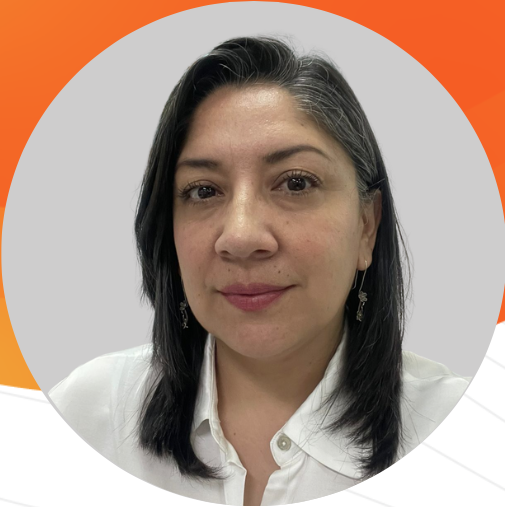
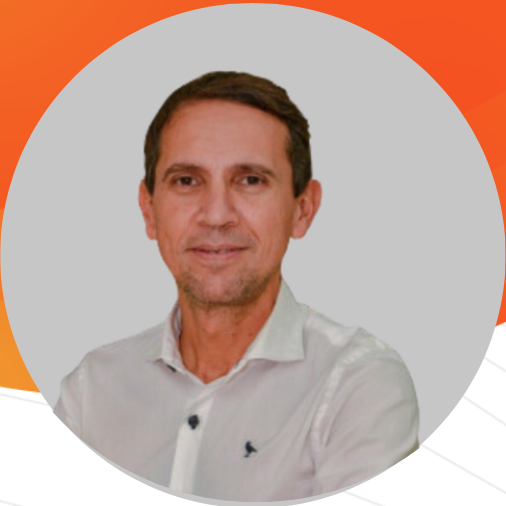
update

diff --git a/cuvico/andres/index.html b/cuvico/andres/index.html
@@ -3,8 +3,10 @@
 <head>
   <meta charset="UTF-8">
   <meta name="viewport" content="width=device-width, initial-scale=1.0">
-  <title>Maribel González | Socia Inspiradora</title>
-  <meta name="description" content="Conoce a Maribel González, Socia Inspiradora de Cuvico.">
+  <title>Andrés
+Rodríguez | Socio Inspirador</title>
+  <meta name="description" content="Conoce a Andrés
+Rodríguez, Socio Inspirador de Cuvico.">
   <meta name="theme-color" content="#08509e">
   
   <!-- Fonts -->
@@ -27,21 +29,24 @@
   <!-- Profile -->
   <div class="profile">
     <img src="./assets/profilepic.png" alt="Foto de perfil" class="profile-img">
-    <h1>Maribel González</h1>
-    <p class="job">Socia inspiradora</p>
+    <h1>Andrés
+Rodríguez</h1>
+    <p class="job">Socio inspirador</p>
   </div>
 
   <!-- About Me -->
   <div class="about-me">
     <h6>Acerca de mi</h6>
-    <p class="desc">Coach de vida y empresarial, Consultora Certificada CTT, en
-herramientas para la transformación cultural por valores de Barrett
-values centre.<br> 
-Comunicadora social y periodista. Especialista en comunicación
-organizacional y Master en comportamiento no verbal.<br>
-Cuenta con 20 años de experiencia como líder y facilitadora en áreas de
-comunicación, cultura y desarrollo de integrantes. Así como
-inspiradora de la cultura VIDA.</p>
+    <p class="desc">Coach de Fortalezas certificado por Gallup y coach ejecutivo de Coaching Hall
+International, con formación en metodologías innovadoras como Open Cards y
+consultor en las 5M, HSMP y Gestión del Cambio.</br>
+Es Psicólogo con especialización en Gerencia de Recursos Humanos y Magíster
+en Perfilación de la Personalidad y Negociación, con múltiples certificaciones
+internacionales en coaching y consultoría estratégica.</br>
+Cuenta con más 20 años de experiencia liderando procesos de gestión humana,
+atracción y desarrollo de talento, así como en la implementación de proyectos de
+cambio organizacional y transformación cultural, aportando valor estratégico y
+transformador en cada una de sus intervenciones.</p>
     
     <!-- Tags -->
     <div class="tags-container">
@@ -49,45 +54,45 @@ inspiradora de la cultura VIDA.</p>
         <div class="tags">
           <span class="tag" style="--tag-color: #08509e;">
             <span class="dot"></span>
-            Maximizador
+            Estratégico
           </span>
           <span class="tag" style="--tag-color: #fd6107;">
             <span class="dot"></span>
-            Aprendedor
+            Inclusión
           </span>
           <span class="tag" style="--tag-color: #08509e;">
             <span class="dot"></span>
-            Coordinador
+            Activador
           </span>
           <span class="tag" style="--tag-color: #fd6107;">
             <span class="dot"></span>
-            Individualizar
+            Idear
           </span>
           <span class="tag" style="--tag-color: #08509e;">
             <span class="dot"></span>
-            Responsabilidad
+            Comunicación
           </span>
         </div>
         <div class="tags">
+          <span class="tag" style="--tag-color: #fd6107;">
+            <span class="dot"></span>
+            Estratégico
+          </span>
           <span class="tag" style="--tag-color: #08509e;">
             <span class="dot"></span>
-            Maximizador
+            Inclusión
           </span>
           <span class="tag" style="--tag-color: #fd6107;">
             <span class="dot"></span>
-            Aprendedor
+            Activador
           </span>
           <span class="tag" style="--tag-color: #08509e;">
             <span class="dot"></span>
-            Coordinador
+            Idear
           </span>
           <span class="tag" style="--tag-color: #fd6107;">
             <span class="dot"></span>
-            Individualizar
-          </span>
-          <span class="tag" style="--tag-color: #08509e;">
-            <span class="dot"></span>
-            Responsabilidad
+            Comunicación
           </span>
         </div>
       </div>
@@ -101,7 +106,7 @@ inspiradora de la cultura VIDA.</p>
         <path d="M 16 3 C 8.83 3 3 8.83 3 16 L 3 34 C 3 41.17 8.83 47 16 47 L 34 47 C 41.17 47 47 41.17 47 34 L 47 16 C 47 8.83 41.17 3 34 3 L 16 3 z M 37 11 C 38.1 11 39 11.9 39 13 C 39 14.1 38.1 15 37 15 C 35.9 15 35 14.1 35 13 C 35 11.9 35.9 11 37 11 z M 25 14 C 31.07 14 36 18.93 36 25 C 36 31.07 31.07 36 25 36 C 18.93 36 14 31.07 14 25 C 14 18.93 18.93 14 25 14 z M 25 16 C 20.04 16 16 20.04 16 25 C 16 29.96 20.04 34 25 34 C 29.96 34 34 29.96 34 25 C 34 20.04 29.96 16 25 16 z"></path>
       </svg>
     </a>
-    <a href="https://www.linkedin.com/in/maribel-gonzález" target="_blank" rel="noopener">
+    <a href="https://www.linkedin.com/company/cuvicoconsultores/" target="_blank" rel="noopener">
       <svg xmlns="http://www.w3.org/2000/svg" viewBox="0 0 16 16">
         <path d="M0 1.146C0 .513.526 0 1.175 0h13.65C15.474 0 16 .513 16 1.146v13.708c0 .633-.526 1.146-1.175 1.146H1.175C.526 16 0 15.487 0 14.854zm4.943 12.248V6.169H2.542v7.225zm-1.2-8.212c.837 0 1.358-.554 1.358-1.248-.015-.709-.52-1.248-1.342-1.248S2.4 3.226 2.4 3.934c0 .694.521 1.248 1.327 1.248zm4.908 8.212V9.359c0-.216.016-.432.08-.586.173-.431.568-.878 1.232-.878.869 0 1.216.662 1.216 1.634v3.865h2.401V9.25c0-2.22-1.184-3.252-2.764-3.252-1.274 0-1.845.7-2.165 1.193v.025h-.016l.016-.025V6.169h-2.4c.03.678 0 7.225 0 7.225z"/>
       </svg>
@@ -121,9 +126,9 @@ inspiradora de la cultura VIDA.</p>
   <!-- Links -->
   <div class="links">
     <h3>Contáctame</h3>
-    <a href="#">Añadir contacto</a>
-    <a href="https://wa.me/3016227209" target="_blank" rel="noopener">WhatsApp</a>
-    <a href="mailto:maribel@cuvico.com.co">Mi Correo</a>
+    <a href="./assets/andres.vcf">Añadir contacto</a>
+    <a href="https://wa.me/+573108014220" target="_blank" rel="noopener">WhatsApp</a>
+    <a href="mailto:arodriguez@cuvico.com.co">Mi Correo</a>
     
     <h3>Cuvico</h3>
     <a href="https://cuvico.com.co" target="_blank" rel="noopener">Página web</a>
@@ -242,8 +247,8 @@ inspiradora de la cultura VIDA.</p>
       e.preventDefault();
       if (navigator.share) {
         navigator.share({
-          title: 'Maribel González',
-          text: 'Conoce el perfil de Maribel González',
+          title: 'Andrés Rodríguez',
+          text: 'Conoce el perfil de Andrés Rodríguez',
           url: window.location.href
         }).catch(err => console.log('Error sharing:', err));
       } else {

diff --git a/cuvico/alina/index.html b/cuvico/alina/index.html
@@ -3,8 +3,8 @@
 <head>
   <meta charset="UTF-8">
   <meta name="viewport" content="width=device-width, initial-scale=1.0">
-  <title>Maribel González | Socia Inspiradora</title>
-  <meta name="description" content="Conoce a Maribel González, Socia Inspiradora de Cuvico.">
+  <title>Alina Restrepo | Socia Inspiradora</title>
+  <meta name="description" content="Conoce a Alina Restrepo, Socia Inspiradora de Cuvico.">
   <meta name="theme-color" content="#08509e">
   
   <!-- Fonts -->
@@ -27,21 +27,20 @@
   <!-- Profile -->
   <div class="profile">
     <img src="./assets/profilepic.png" alt="Foto de perfil" class="profile-img">
-    <h1>Maribel González</h1>
+    <h1>Alina Restrepo</h1>
     <p class="job">Socia inspiradora</p>
   </div>
 
   <!-- About Me -->
   <div class="about-me">
     <h6>Acerca de mi</h6>
-    <p class="desc">Coach de vida y empresarial, Consultora Certificada CTT, en
-herramientas para la transformación cultural por valores de Barrett
-values centre.<br> 
-Comunicadora social y periodista. Especialista en comunicación
-organizacional y Master en comportamiento no verbal.<br>
-Cuenta con 20 años de experiencia como líder y facilitadora en áreas de
-comunicación, cultura y desarrollo de integrantes. Así como
-inspiradora de la cultura VIDA.</p>
+    <p class="desc">Certificada como Coach de fortalezas de Gallup, es también Coach Ejecutiva
+certificada por CBC International, Coach ontológica de Newfield network,
+Coach organizacional y de Liderazgo generativo y Coach sistémica de Equipos.<br>
+Administradora de negocios con especialización en finanzas con más de 20 años
+de experiencia en el sector comercial y empresarial, como líder, consultora,
+catedrática e inspiradora organizacional.
+Mentora y docente de Empresarismo en la Universidad Eafit</p>
     
     <!-- Tags -->
     <div class="tags-container">
@@ -49,15 +48,7 @@ inspiradora de la cultura VIDA.</p>
         <div class="tags">
           <span class="tag" style="--tag-color: #08509e;">
             <span class="dot"></span>
-            Maximizador
-          </span>
-          <span class="tag" style="--tag-color: #fd6107;">
-            <span class="dot"></span>
-            Aprendedor
-          </span>
-          <span class="tag" style="--tag-color: #08509e;">
-            <span class="dot"></span>
-            Coordinador
+            Activador
           </span>
           <span class="tag" style="--tag-color: #fd6107;">
             <span class="dot"></span>
@@ -65,17 +56,29 @@ inspiradora de la cultura VIDA.</p>
           </span>
           <span class="tag" style="--tag-color: #08509e;">
             <span class="dot"></span>
-            Responsabilidad
+            Empatía
+          </span>
+          <span class="tag" style="--tag-color: #fd6107;">
+            <span class="dot"></span>
+            Coordinador
+          </span>
+          <span class="tag" style="--tag-color: #08509e;">
+            <span class="dot"></span>
+            Afinidad
           </span>
         </div>
         <div class="tags">
+          <span class="tag" style="--tag-color: #fd6107;">
+            <span class="dot"></span>
+            Activador
+          </span>
           <span class="tag" style="--tag-color: #08509e;">
             <span class="dot"></span>
-            Maximizador
+            Individualizar
           </span>
           <span class="tag" style="--tag-color: #fd6107;">
             <span class="dot"></span>
-            Aprendedor
+            Empatía
           </span>
           <span class="tag" style="--tag-color: #08509e;">
             <span class="dot"></span>
@@ -83,11 +86,7 @@ inspiradora de la cultura VIDA.</p>
           </span>
           <span class="tag" style="--tag-color: #fd6107;">
             <span class="dot"></span>
-            Individualizar
-          </span>
-          <span class="tag" style="--tag-color: #08509e;">
-            <span class="dot"></span>
-            Responsabilidad
+            Afinidad
           </span>
         </div>
       </div>
@@ -101,7 +100,7 @@ inspiradora de la cultura VIDA.</p>
         <path d="M 16 3 C 8.83 3 3 8.83 3 16 L 3 34 C 3 41.17 8.83 47 16 47 L 34 47 C 41.17 47 47 41.17 47 34 L 47 16 C 47 8.83 41.17 3 34 3 L 16 3 z M 37 11 C 38.1 11 39 11.9 39 13 C 39 14.1 38.1 15 37 15 C 35.9 15 35 14.1 35 13 C 35 11.9 35.9 11 37 11 z M 25 14 C 31.07 14 36 18.93 36 25 C 36 31.07 31.07 36 25 36 C 18.93 36 14 31.07 14 25 C 14 18.93 18.93 14 25 14 z M 25 16 C 20.04 16 16 20.04 16 25 C 16 29.96 20.04 34 25 34 C 29.96 34 34 29.96 34 25 C 34 20.04 29.96 16 25 16 z"></path>
       </svg>
     </a>
-    <a href="https://www.linkedin.com/in/maribel-gonzález" target="_blank" rel="noopener">
+    <a href="https://www.linkedin.com/company/cuvicoconsultores/" target="_blank" rel="noopener">
       <svg xmlns="http://www.w3.org/2000/svg" viewBox="0 0 16 16">
         <path d="M0 1.146C0 .513.526 0 1.175 0h13.65C15.474 0 16 .513 16 1.146v13.708c0 .633-.526 1.146-1.175 1.146H1.175C.526 16 0 15.487 0 14.854zm4.943 12.248V6.169H2.542v7.225zm-1.2-8.212c.837 0 1.358-.554 1.358-1.248-.015-.709-.52-1.248-1.342-1.248S2.4 3.226 2.4 3.934c0 .694.521 1.248 1.327 1.248zm4.908 8.212V9.359c0-.216.016-.432.08-.586.173-.431.568-.878 1.232-.878.869 0 1.216.662 1.216 1.634v3.865h2.401V9.25c0-2.22-1.184-3.252-2.764-3.252-1.274 0-1.845.7-2.165 1.193v.025h-.016l.016-.025V6.169h-2.4c.03.678 0 7.225 0 7.225z"/>
       </svg>
@@ -242,8 +241,8 @@ inspiradora de la cultura VIDA.</p>
       e.preventDefault();
       if (navigator.share) {
         navigator.share({
-          title: 'Maribel González',
-          text: 'Conoce el perfil de Maribel González',
+          title: 'Alina Restrepo',
+          text: 'Conoce el perfil de Alina Restrepo',
           url: window.location.href
         }).catch(err => console.log('Error sharing:', err));
       } else {

diff --git a/cuvico/maribel/index.html b/cuvico/maribel/index.html
@@ -101,7 +101,7 @@ inspiradora de la cultura VIDA.</p>
         <path d="M 16 3 C 8.83 3 3 8.83 3 16 L 3 34 C 3 41.17 8.83 47 16 47 L 34 47 C 41.17 47 47 41.17 47 34 L 47 16 C 47 8.83 41.17 3 34 3 L 16 3 z M 37 11 C 38.1 11 39 11.9 39 13 C 39 14.1 38.1 15 37 15 C 35.9 15 35 14.1 35 13 C 35 11.9 35.9 11 37 11 z M 25 14 C 31.07 14 36 18.93 36 25 C 36 31.07 31.07 36 25 36 C 18.93 36 14 31.07 14 25 C 14 18.93 18.93 14 25 14 z M 25 16 C 20.04 16 16 20.04 16 25 C 16 29.96 20.04 34 25 34 C 29.96 34 34 29.96 34 25 C 34 20.04 29.96 16 25 16 z"></path>
       </svg>
     </a>
-    <a href="https://www.linkedin.com/in/maribel-gonzález" target="_blank" rel="noopener">
+    <a href="https://www.linkedin.com/company/cuvicoconsultores/" target="_blank" rel="noopener">
       <svg xmlns="http://www.w3.org/2000/svg" viewBox="0 0 16 16">
         <path d="M0 1.146C0 .513.526 0 1.175 0h13.65C15.474 0 16 .513 16 1.146v13.708c0 .633-.526 1.146-1.175 1.146H1.175C.526 16 0 15.487 0 14.854zm4.943 12.248V6.169H2.542v7.225zm-1.2-8.212c.837 0 1.358-.554 1.358-1.248-.015-.709-.52-1.248-1.342-1.248S2.4 3.226 2.4 3.934c0 .694.521 1.248 1.327 1.248zm4.908 8.212V9.359c0-.216.016-.432.08-.586.173-.431.568-.878 1.232-.878.869 0 1.216.662 1.216 1.634v3.865h2.401V9.25c0-2.22-1.184-3.252-2.764-3.252-1.274 0-1.845.7-2.165 1.193v.025h-.016l.016-.025V6.169h-2.4c.03.678 0 7.225 0 7.225z"/>
       </svg>
@@ -121,8 +121,8 @@ inspiradora de la cultura VIDA.</p>
   <!-- Links -->
   <div class="links">
     <h3>Contáctame</h3>
-    <a href="#">Añadir contacto</a>
-    <a href="https://wa.me/3016227209" target="_blank" rel="noopener">WhatsApp</a>
+    <a href="./assets/maribel.vcf">Añadir contacto</a>
+    <a href="https://wa.me/+573103964843" target="_blank" rel="noopener">WhatsApp</a>
     <a href="mailto:maribel@cuvico.com.co">Mi Correo</a>
     
     <h3>Cuvico</h3>
